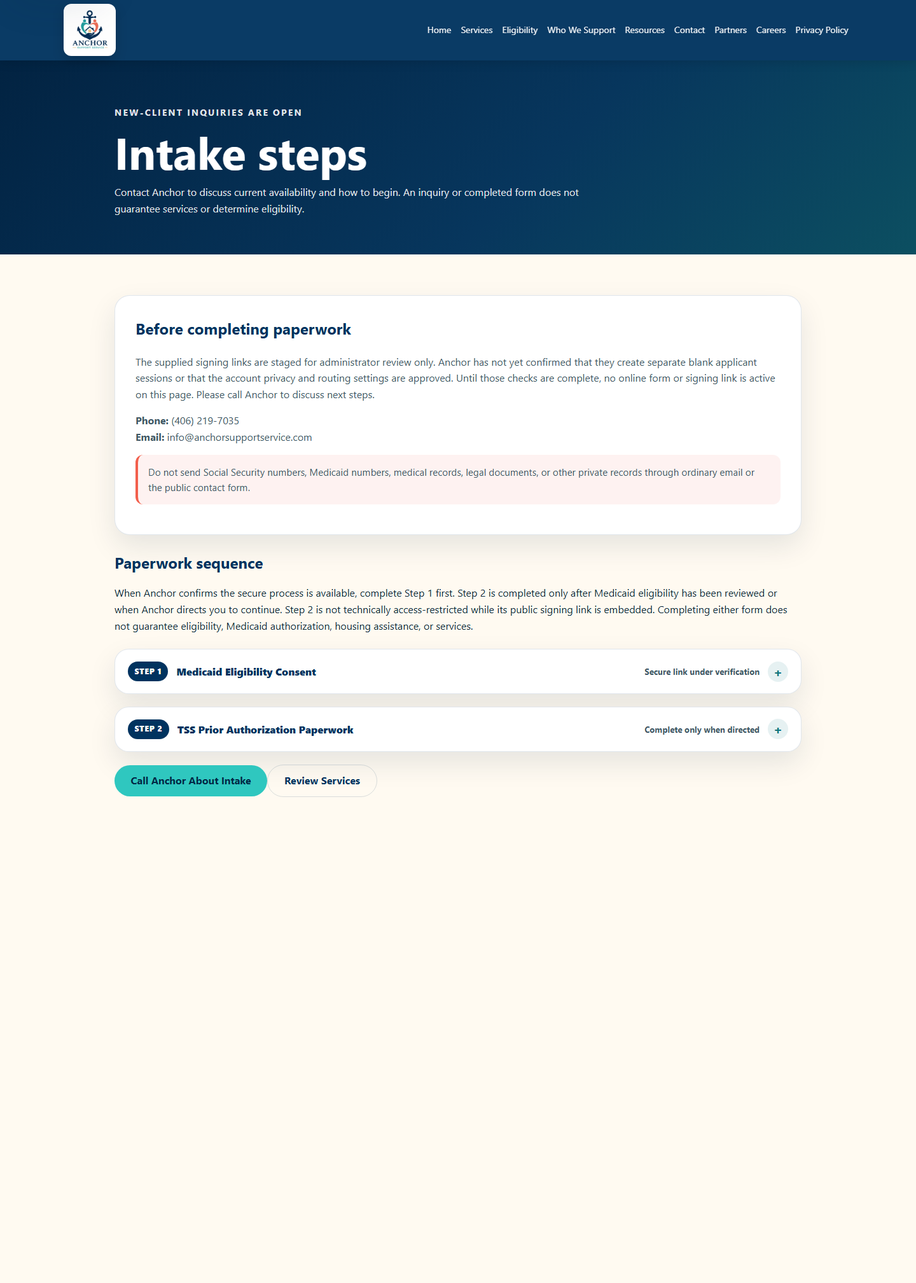
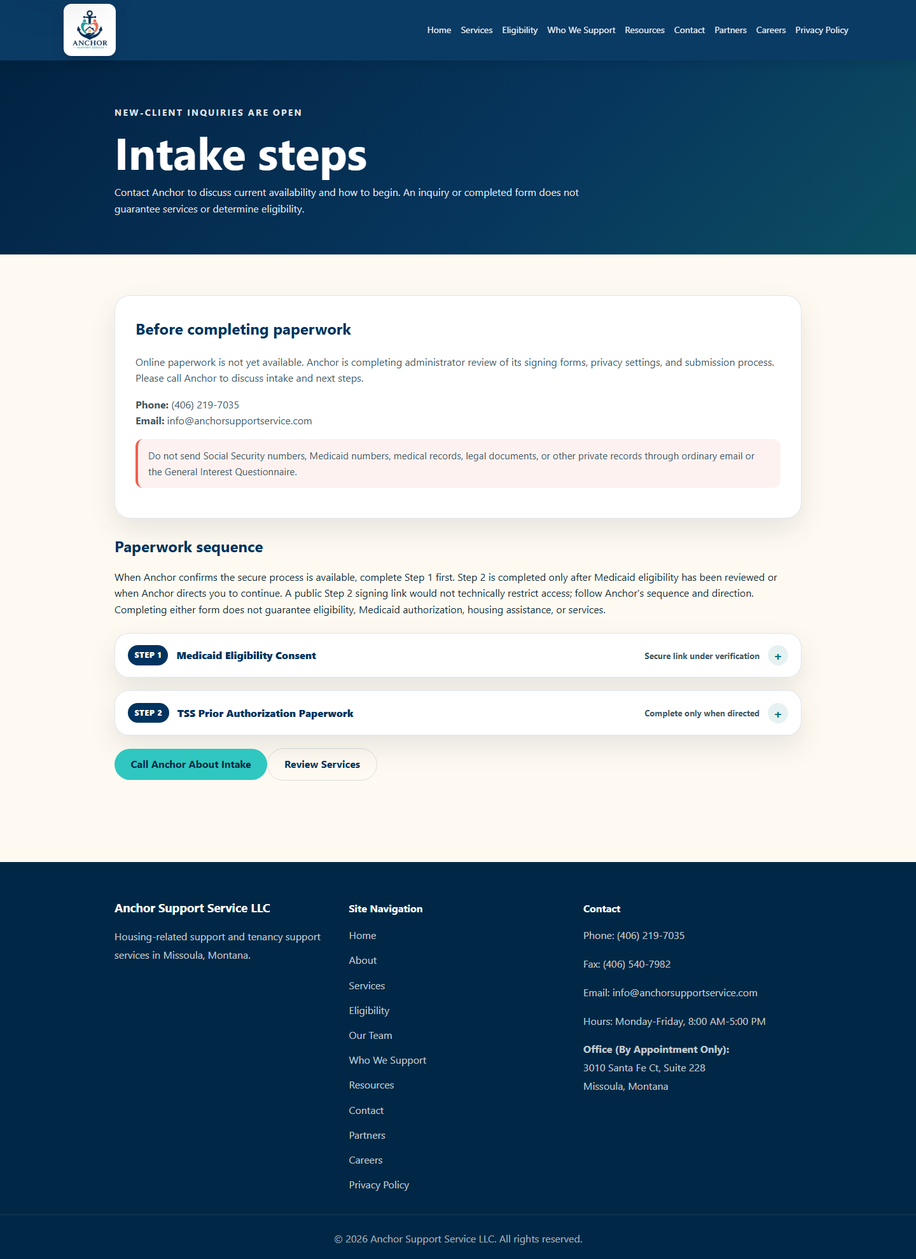
Restore general interest questionnaire and telephone intake

diff --git a/secure-paperwork.html b/secure-paperwork.html
@@ -40,39 +40,26 @@
       <div class="container">
         <div class="secure-action-card">
           <h2 id="secure-paperwork-title" tabindex="-1">Before completing paperwork</h2>
-          <p>The supplied signing links are staged for administrator review only. Anchor has not yet confirmed that they create separate blank applicant sessions or that the account privacy and routing settings are approved. Until those checks are complete, no online form or signing link is active on this page. Please call Anchor to discuss next steps.</p>
+          <p>Online paperwork is not yet available. Anchor is completing administrator review of its signing forms, privacy settings, and submission process. Please call Anchor to discuss intake and next steps.</p>
           <p><strong>Phone:</strong> <a href="tel:4062197035">(406) 219-7035</a><br /><strong>Email:</strong> <a href="mailto:info@anchorsupportservice.com">info@anchorsupportservice.com</a></p>
-          <p class="privacy-warning">Do not send Social Security numbers, Medicaid numbers, medical records, legal documents, or other private records through ordinary email or the public contact form.</p>
+          <p class="privacy-warning">Do not send Social Security numbers, Medicaid numbers, medical records, legal documents, or other private records through ordinary email or the General Interest Questionnaire.</p>
         </div>
 
         <section class="secure-paperwork-section" aria-labelledby="paperwork-steps-title">
           <h2 id="paperwork-steps-title">Paperwork sequence</h2>
-          <p>When Anchor confirms the secure process is available, complete Step 1 first. Step 2 is completed only after Medicaid eligibility has been reviewed or when Anchor directs you to continue. Step 2 is not technically access-restricted while its public signing link is embedded. Completing either form does not guarantee eligibility, Medicaid authorization, housing assistance, or services.</p>
+          <p>When Anchor confirms the secure process is available, complete Step 1 first. Step 2 is completed only after Medicaid eligibility has been reviewed or when Anchor directs you to continue. A public Step 2 signing link would not technically restrict access; follow Anchor's sequence and direction. Completing either form does not guarantee eligibility, Medicaid authorization, housing assistance, or services.</p>
           <div class="paperwork-accordion">
             <details class="paperwork-step">
               <summary><span class="paperwork-step-number">Step 1</span><span class="paperwork-step-title">Medicaid Eligibility Consent</span><span class="paperwork-step-status">Secure link under verification</span></summary>
-              <div class="paperwork-step-content"><p>The supplied Step 1 embed and full-screen link are held in inactive review markup until Anchor verifies the signing session, account, privacy, and routing settings. Call Anchor for next steps; do not use a saved invitation link.</p></div>
+              <div class="paperwork-step-content"><p>Medicaid Eligibility Consent is not yet available online. Call Anchor for next steps. Complete Step 1 before proceeding to Step 2.</p></div>
             </details>
             <details class="paperwork-step">
               <summary><span class="paperwork-step-number">Step 2</span><span class="paperwork-step-title">TSS Prior Authorization Paperwork</span><span class="paperwork-step-status">Complete only when directed</span></summary>
-              <div class="paperwork-step-content"><p>This step follows Medicaid eligibility review or Anchor's direction to continue. Its supplied embed and full-screen link are held in inactive review markup pending the same verification. This public link is not technically access-restricted, so it must not be activated until the sequence and applicant-isolation checks pass.</p></div>
+              <div class="paperwork-step-content"><p>This step is not yet available online. It should only be completed after Medicaid eligibility review or when Anchor directs you to proceed.</p></div>
             </details>
           </div>
           <div class="secure-paperwork-actions"><a class="button button-primary" href="tel:4062197035">Call Anchor About Intake</a><a class="button button-link" href="/#services">Review Services</a></div>
         </section>
-        <!-- Inert review-only templates: content is not rendered, fetched, or available as an active signing link. -->
-        <template id="medicaid-signing-review">
-          <div class="jotform-embed-wrapper">
-            <iframe title="Anchor Medicaid Eligibility Consent Form FINAL" src="https://www.jotform.com/sign/262147427126051/invite/01kz4zvdp21ab4ea6182848483?signEmbed=1" class="secure-paperwork-frame" loading="lazy" style="width:100%; max-width:100%; min-height:750px; border:0;"></iframe>
-          </div>
-          <a href="https://www.jotform.com/sign/262147427126051/invite/01kz4zvdp21ab4ea6182848483" target="_blank" rel="noopener noreferrer">Open Medicaid Eligibility Consent in a full-screen signing page</a>
-        </template>
-        <template id="tss-referral-signing-review">
-          <div class="jotform-embed-wrapper">
-            <iframe title="TSS PA Prefilled Anchor Support 8.3.26" src="https://www.jotform.com/sign/262147240572049/invite/01kz4zrqzrffb243dcb86ce3ee?signEmbed=1" class="secure-paperwork-frame" loading="lazy" style="width:100%; max-width:100%; min-height:750px; border:0;"></iframe>
-          </div>
-          <a href="https://www.jotform.com/sign/262147240572049/invite/01kz4zrqzrffb243dcb86ce3ee" target="_blank" rel="noopener noreferrer">Open TSS Prior Authorization Paperwork in a full-screen signing page</a>
-        </template>
       </div>
     </section>
   </main>

diff --git a/index.html b/index.html
@@ -405,12 +405,13 @@
             <p class="eyebrow">Contact and Updates</p>
             <h2>Contact Anchor Support Service LLC</h2>
             <p>Anchor is accepting new-client inquiries. Contact us to discuss availability and the referral and assessment process. An inquiry does not guarantee services, housing, financial assistance, Medicaid approval, Tenancy Support Services eligibility, prior authorization, or approval by another agency or program.</p>
-            <p class="privacy-warning">Please do not send private health or identifying information through ordinary email or the public contact form.</p>
+            <p class="privacy-warning">The General Interest Questionnaire is for general inquiries only; it is not a secure Medicaid enrollment form. Do not submit sensitive medical, Medicaid, or identifying information through the questionnaire or ordinary email.</p>
             <p>If this is an emergency, call 911. If you are in emotional distress or a mental health crisis, call or text 988.</p>
           </div>
           <div class="contact-actions">
-            <a class="button button-primary" href="secure-paperwork.html">View Intake Steps</a>
+            <a class="button button-primary" href="https://docs.google.com/forms/d/e/1FAIpQLSeae9eGYlUxB4MeFz2V6wtrWI_awH7uM_E0AykRIPcDMjRBGQ/viewform" target="_blank" rel="noopener noreferrer">General Interest Questionnaire</a>
             <a class="button button-link" href="tel:4062197035">Call Anchor</a>
+            <a class="button button-link" href="secure-paperwork.html">View Intake Steps</a>
             <a class="button button-link" href="mailto:info@anchorsupportservice.com">Email Anchor</a>
           </div>
         </div>

diff --git a/.github/site-tools/website_qa.py b/.github/site-tools/website_qa.py
@@ -27,6 +27,7 @@ EXTERNAL_EXPECTED = {
     "https://www.hud.gov/",
     "https://mountainline.com/",
     "https://www.indeed.com/viewjob?jk=b645ab34482aea27",
+    "https://docs.google.com/forms/d/e/1FAIpQLSeae9eGYlUxB4MeFz2V6wtrWI_awH7uM_E0AykRIPcDMjRBGQ/viewform",
 }
 
 class QuietHandler(SimpleHTTPRequestHandler):
@@ -226,7 +227,8 @@ def main():
                 page.goto(base + "/#contact", wait_until="networkidle")
                 contact_text = page.locator("#contact").inner_text()
                 office_text = page.locator(".office-update-card").inner_text()
-                contact_ok = all(s in contact_text for s in ["(406) 219-7035", "(406) 540-7982", "info@anchorsupportservice.com", "accepting new-client inquiries", "3010 Santa Fe Ct, Suite 228", "By Appointment Only", "Walk-ins are not available", "PO Box 17021", "3150 Great Northern Loop"]) and all(s.casefold() in office_text.casefold() for s in ["Office Location Update", "3010 Santa Fe Ct, Suite 228", "By Appointment Only", "Walk-ins are not available"]) and page.locator('#contact a[href^="https://www.google.com/maps/search/"]').count() == 1 and page.locator('.office-update-card a[href^="https://www.google.com/maps/search/"]').count() == 1
+                questionnaire = page.locator('#contact a[href="https://docs.google.com/forms/d/e/1FAIpQLSeae9eGYlUxB4MeFz2V6wtrWI_awH7uM_E0AykRIPcDMjRBGQ/viewform"]')
+                contact_ok = all(s in contact_text for s in ["(406) 219-7035", "(406) 540-7982", "info@anchorsupportservice.com", "accepting new-client inquiries", "3010 Santa Fe Ct, Suite 228", "By Appointment Only", "Walk-ins are not available", "PO Box 17021", "3150 Great Northern Loop", "General Interest Questionnaire", "not a secure Medicaid enrollment form", "Do not submit sensitive medical, Medicaid, or identifying information"]) and all(s.casefold() in office_text.casefold() for s in ["Office Location Update", "3010 Santa Fe Ct, Suite 228", "By Appointment Only", "Walk-ins are not available"]) and questionnaire.count() == 1 and questionnaire.get_attribute("target") == "_blank" and "noopener" in (questionnaire.get_attribute("rel") or "") and page.locator('#contact a[href="tel:4062197035"]').count() >= 1 and page.locator('#contact a[href="secure-paperwork.html"]').inner_text() == "View Intake Steps" and page.locator('#contact a[href^="https://www.google.com/maps/search/"]').count() == 1 and page.locator('.office-update-card a[href^="https://www.google.com/maps/search/"]').count() == 1
                 page.goto(base + "/policy.html", wait_until="networkidle")
                 overflow_after_zoom = []
                 for zoom_width in [int(width/1.25), int(width/2)] if width <= 430 else []:
@@ -234,7 +236,7 @@ def main():
                     z = page.evaluate("({inner:innerWidth,scroll:document.documentElement.scrollWidth})")
                     if z["scroll"] > z["inner"] + 1:
                         overflow_after_zoom.append({"width": zoom_width, **z})
-                results["journeys"][label] = {"hiring_visible": hiring_visible, "careers_navigation": on_careers, "position_content": content_present, "pdf_download": download_ok, "pdf_href": href, "indeed_application": indeed_ok, "mobile_intro_compact": compact_intro, "apply_button_visible_early": apply_early, "mobile_menu_to_policy": menu_policy_ok, "policy_readable": policy_ok, "policy_contact_section": policy_contact_ok, "contact_links_and_intake_notice": contact_ok, "zoom_overflow": overflow_after_zoom}
+                results["journeys"][label] = {"hiring_visible": hiring_visible, "careers_navigation": on_careers, "position_content": content_present, "pdf_download": download_ok, "pdf_href": href, "indeed_application": indeed_ok, "mobile_intro_compact": compact_intro, "apply_button_visible_early": apply_early, "mobile_menu_to_policy": menu_policy_ok, "policy_readable": policy_ok, "policy_contact_section": policy_contact_ok, "contact_links_intake_notice_and_questionnaire": contact_ok, "zoom_overflow": overflow_after_zoom}
 
             page.set_viewport_size({"width": 390, "height": 844})
             page.goto(base + "/", wait_until="networkidle")
@@ -244,25 +246,14 @@ def main():
             secure_text = page.locator("main").inner_text()
             steps_text = page.locator(".paperwork-step").evaluate_all("els => els.map(el => el.textContent)")
             steps_text = " ".join(steps_text).strip()
-            template_checks = page.evaluate("""() => {
-              const expected = [
-                {id:'medicaid-signing-review', title:'Anchor Medicaid Eligibility Consent Form FINAL', src:'https://www.jotform.com/sign/262147427126051/invite/01kz4zvdp21ab4ea6182848483?signEmbed=1', full:'https://www.jotform.com/sign/262147427126051/invite/01kz4zvdp21ab4ea6182848483'},
-                {id:'tss-referral-signing-review', title:'TSS PA Prefilled Anchor Support 8.3.26', src:'https://www.jotform.com/sign/262147240572049/invite/01kz4zrqzrffb243dcb86ce3ee?signEmbed=1', full:'https://www.jotform.com/sign/262147240572049/invite/01kz4zrqzrffb243dcb86ce3ee'}
-              ];
-              return expected.map(item => {
-                const template=document.getElementById(item.id);
-                const frame=template?.content.querySelector('iframe');
-                const link=template?.content.querySelector('a');
-                return {id:item.id, exists:!!template, iframe:!!frame, title:frame?.title, src:frame?.getAttribute('src'), accessibleFullScreen:!!link && link.href===item.full, fullLinkText:link?.textContent.trim()||'', loading:frame?.getAttribute('loading'), widthStyle:frame?.getAttribute('style')||''};
-              });
-            }""")
-            staged_links_ok = len(template_checks) == 2 and template_checks[0]["exists"] and template_checks[0]["iframe"] and template_checks[0]["title"] == "Anchor Medicaid Eligibility Consent Form FINAL" and template_checks[0]["src"] == "https://www.jotform.com/sign/262147427126051/invite/01kz4zvdp21ab4ea6182848483?signEmbed=1" and template_checks[0]["accessibleFullScreen"] and template_checks[1]["exists"] and template_checks[1]["iframe"] and template_checks[1]["title"] == "TSS PA Prefilled Anchor Support 8.3.26" and template_checks[1]["src"] == "https://www.jotform.com/sign/262147240572049/invite/01kz4zrqzrffb243dcb86ce3ee?signEmbed=1" and template_checks[1]["accessibleFullScreen"] and all(x["loading"] == "lazy" and "width:100%" in x["widthStyle"] for x in template_checks)
-            active_signing_link = page.locator('a[href^="https://www.jotform.com/sign/"]').count() > 0
-            secure_intake_ok = secure_meta == "noindex, nofollow" and all(s in secure_text + " " + steps_text for s in ["Step 1", "Medicaid Eligibility Consent", "Step 2", "TSS Prior Authorization Paperwork", "only after Medicaid eligibility has been reviewed", "not technically access-restricted", "does not guarantee eligibility, Medicaid authorization, housing assistance"]) and page.locator(".paperwork-step").count() == 2 and page.locator("iframe").count() == 0 and page.locator("form").count() == 0 and page.locator('a[href="tel:4062197035"]').count() >= 1 and staged_links_ok and not active_signing_link
+            secure_html = (root / "secure-paperwork.html").read_text(encoding="utf-8").casefold()
+            secure_online_unavailable = "online paperwork is not yet available" in secure_text.casefold()
+            no_published_jotform_link = "jotform.com" not in secure_html and "/invite/" not in secure_html
+            secure_intake_ok = secure_meta == "noindex, nofollow" and all(s in secure_text + " " + steps_text for s in ["Step 1", "Medicaid Eligibility Consent", "Step 2", "TSS Prior Authorization Paperwork", "only after Medicaid eligibility has been reviewed", "does not guarantee eligibility, Medicaid authorization, housing assistance"]) and secure_online_unavailable and no_published_jotform_link and page.locator(".paperwork-step").count() == 2 and page.locator("iframe").count() == 0 and page.locator("form").count() == 0 and page.locator('a[href="tel:4062197035"]').count() >= 1 and page.locator('a[href^="https://www.jotform.com/"]').count() == 0
             stale_pause_copy = re.compile(r"paused from accepting new clients|new client pause|intake (?:is )?paused|paperwork (?:is )?paused", re.I)
             public_html = [root / "index.html", root / "careers" / "index.html", root / "secure-paperwork.html"]
             no_stale_intake_pause = all(not stale_pause_copy.search(file.read_text(encoding="utf-8")) for file in public_html)
-            results["journeys"]["new_client_intake"] = {"homepage_notice": intake_notice_ok, "secure_steps_and_no_unverified_embeds": secure_intake_ok, "staged_embed_snippets_and_full_screen_links": staged_links_ok, "no_active_signing_links": not active_signing_link, "secure_route_noindex_nofollow": secure_meta == "noindex, nofollow", "no_stale_pause_copy": no_stale_intake_pause}
+            results["journeys"]["new_client_intake"] = {"homepage_notice": intake_notice_ok, "secure_steps_and_online_forms_unavailable": secure_intake_ok, "no_jotform_or_invitation_links_published": no_published_jotform_link, "secure_route_noindex_nofollow": secure_meta == "noindex, nofollow", "no_stale_pause_copy": no_stale_intake_pause}
 
             page.set_viewport_size({"width": 390, "height": 844})
             page.goto(base + "/", wait_until="networkidle")
@@ -300,9 +291,9 @@ def main():
     summary = {"page_count": len(results["pages"]), "viewports": VIEWPORTS, "overflow": results["overflow"], "page_errors": results["page_errors"], "console_errors": results["console_errors"], "failed_local_requests": results["failed_local_requests"], "broken_images": results["broken_images"], "internal_links": results["internal_links"], "external_link_count": len(results["external_links"]), "journeys": results["journeys"], "accessibility": results["accessibility"]}
     print(json.dumps(summary, indent=2))
     failed = bool(results["overflow"] or results["page_errors"] or results["console_errors"] or results["failed_local_requests"] or results["broken_images"] or results["internal_links"] or results["accessibility"])
-    failed = failed or any(not all([v.get("hiring_visible"),v.get("careers_navigation"),v.get("position_content"),v.get("pdf_download"),v.get("indeed_application"),v.get("mobile_intro_compact"),v.get("apply_button_visible_early"),v.get("mobile_menu_to_policy"),v.get("policy_readable"),v.get("policy_contact_section"),v.get("contact_links_and_intake_notice")]) or v.get("zoom_overflow") for k,v in results["journeys"].items() if k in ("mobile","desktop"))
+    failed = failed or any(not all([v.get("hiring_visible"),v.get("careers_navigation"),v.get("position_content"),v.get("pdf_download"),v.get("indeed_application"),v.get("mobile_intro_compact"),v.get("apply_button_visible_early"),v.get("mobile_menu_to_policy"),v.get("policy_readable"),v.get("policy_contact_section"),v.get("contact_links_intake_notice_and_questionnaire")]) or v.get("zoom_overflow") for k,v in results["journeys"].items() if k in ("mobile","desktop"))
     intake = results["journeys"].get("new_client_intake", {})
-    failed = failed or not all(intake.get(key) for key in ("homepage_notice", "secure_steps_and_no_unverified_embeds", "secure_route_noindex_nofollow", "no_stale_pause_copy"))
+    failed = failed or not all(intake.get(key) for key in ("homepage_notice", "secure_steps_and_online_forms_unavailable", "no_jotform_or_invitation_links_published", "secure_route_noindex_nofollow", "no_stale_pause_copy"))
     partners = results["journeys"].get("partners_page", {})
     failed = failed or not all(partners.get(key) for key in ("homepage_callout", "content_scope_and_limitations", "verified_contact_links_no_form"))
 

diff --git a/review-artifacts/partners/RELEASE_REVIEW.md b/review-artifacts/partners/RELEASE_REVIEW.md
@@ -2,7 +2,7 @@
 
 **Branch:** `phase2/partners`  
 **Target:** `main`  
-**State:** Review-only Jotform embeds staged; no PR was created because the connected GitHub integration rejected PR creation with HTTP 403 (`Resource not accessible by integration`). Do not merge or deploy before administrator verification and owner approval.
+**State:** Telephone and general-interest inquiry release prepared on this branch. Secure online intake remains inactive. No PR was created because the connected GitHub integration rejected PR creation with HTTP 403 (`Resource not accessible by integration`). Do not merge or deploy without owner approval.
 
 ## Integrated history
 
@@ -28,36 +28,39 @@ The two historical forms are:
 1. **Anchor Medicaid Eligibility Consent**
 2. **TSS PA / Referral Paperwork**
 
-The owner supplied two invitation-path embed URLs and asked that they be staged for administrator review. They are kept inside inert HTML `<template>` elements on `/secure-paperwork.html`; browsers do not render those frames or request the URLs, and no active Jotform signing link is presented. Each template includes its supplied embed code and a full-screen link candidate. The visible page remains telephone-first, says the links are under review, and explicitly says Step 2 is not technically access-restricted while publicly embedded. The route remains `noindex, nofollow`.
+The `/secure-paperwork.html` page provides verified telephone contact and clearly states that online paperwork is not yet available. The homepage Contact section now offers the existing Google General Interest Questionnaire alongside the phone and intake-steps actions, states it is not a secure Medicaid enrollment form, and warns against submitting sensitive medical, Medicaid, or identifying information. The form's public blank view asks for contact information and general housing/service needs, explicitly prohibits Social Security numbers, medical records, legal documents, full Medicaid numbers, and private documents, and provides a submit control. On November 18, 2026, it loaded successfully (HTTP 200), showed a Submit control, and displayed no closed-form message. No data was entered or submitted. This indicates the form appeared open at check time, but does not verify response routing or notifications.
 
-Anonymous read-only checks of the supplied URLs returned HTTP 200 and the expected form titles at the time checked. The Step 1 document showed 47 controls and 14 non-empty fields; Step 2 showed 97 controls and 52 non-empty fields. **No field values were read, recorded, or submitted.** Because values are present in both sessions, we cannot determine whether they are benign document defaults or applicant-specific data. This is a release-blocking isolation/privacy concern until the administrator confirms the links create separate blank applicant sessions. These checks do not establish that the links were generated through Share → Embed, remain active, or route completed submissions to Anchor's intended account.
+The intake page retains the Step 1 Medicaid Consent then Step 2 TSS Referral / Prior Authorization sequence, with Step 2 only after Medicaid review or Anchor's direction. No Jotform embed, invitation link, or full-screen signing link is included in current website source or generated public output. Online signing remains inactive.
 
-No authenticated Jotform administration access was available. No submissions were inspected or made. Online signing and the full-screen links remain inactive.
+An earlier anonymous read-only check observed some non-empty fields in the supplied forms. **That observation alone is not evidence of a privacy incident. No field contents were inspected, exposed, recorded, or submitted.** The authorized Jotform administrator must determine whether any prefilled content is an intentional organization-level default or applicant-specific information by inspecting form configuration in the authenticated account and confirming with safe synthetic sessions only. No actual applicant values should be copied into this review or shared during verification.
 
 An authorized Jotform administrator must verify and document all of the following before enabling online paperwork:
 
-1. In the live account, confirm both supplied URLs are current reusable public Share → Embed signing links and are not invitation-specific links. Explain the observed non-empty fields without exposing their values. Using synthetic data only, verify that separate fresh sessions are blank and isolated, and that no previous applicant's information is exposed. Confirm whether the full-screen URLs are the approved public sharing URLs.
-2. Verify a current, executed HIPAA Business Associate Agreement applies to Anchor’s Jotform account, plan, forms, storage, and enabled features. Confirm which submissions and attachments it covers; do not infer coverage from a product label or a generic vendor statement.
-3. Review submission privacy and separation: who can view, edit, export, download, or share each form’s responses; whether responses or attachments appear in public/shared locations; and whether access is limited to the correct authorized staff.
-4. Review account access: current named staff, role permissions, authentication/MFA settings, former-staff access removal, and available access/audit history.
-5. Review notifications and routing: send only minimum-necessary notifications, avoid PHI in ordinary email subjects/bodies and attachments, confirm recipients are authorized, and keep the consent and TSS PA workflows separate and correctly ordered.
-6. Confirm retention, deletion, export/backups, and incident/escalation procedures for the submissions under Anchor’s applicable policies and agreements.
-7. Test only with synthetic data after the account checks. Verify the links, separate sessions, notifications, routing, access, and deletion without entering or submitting actual client PHI.
+1. In the live account, confirm both forms are active and obtain current reusable public Share → Embed URLs, not invitation-specific links. Verify fresh sessions are separate and do not expose prior applicants' information. Use synthetic data only. Do not publish these URLs until confirmed reusable and safe.
+2. Review these field categories in the form configuration and confirm their defaults are organization-level and contain no applicant-specific information: organization identity and contact fields; applicant identity and contact fields; date-of-birth and Medicaid/member identifiers; referral, provider, service, and prior-authorization details; health, eligibility, and case information; signatures, dates, and attestations; uploaded files or attachments.
+3. Verify a current, executed HIPAA Business Associate Agreement applies to Anchor’s Jotform account, plan, forms, storage, and enabled features. Confirm which submissions and attachments it covers; do not infer coverage from a product label or a generic vendor statement.
+4. Review submission privacy and separation: who can view, edit, export, download, or share each form’s responses; whether responses or attachments appear in public/shared locations; and whether access is limited to the correct authorized staff.
+5. Review account access: current named staff, role permissions, authentication/MFA settings, former-staff access removal, and available access/audit history.
+6. Review notifications and routing: send only minimum-necessary notifications, avoid PHI in ordinary email subjects/bodies and attachments, confirm recipients are authorized, and keep the consent and TSS PA workflows separate and correctly ordered.
+7. Confirm retention, deletion, export/backups, and incident/escalation procedures for the submissions under Anchor’s applicable policies and agreements.
+8. Only after the preceding checks, use synthetic data to verify signing, separate sessions, notifications, routing, authorized access, and deletion. Do not enter actual client PHI during testing.
 
-Official Jotform guidance describes generating a Jotform Sign embed via **Share → Embed** and copying its generated embed code, but this does not verify that the supplied invitation-path URLs were generated that way or are reusable. Jotform's HIPAA help says account administrators must enable the HIPAA environment and review/sign the BAA in the account; Anchor's own configuration and signed BAA remain unverified ([Jotform Sign embed instructions](https://www.jotform.com/help/how-to-use-jotform-sign/), [HIPAA BAA instructions](https://www.jotform.com/help/501-how-to-receive-the-baa-for-my-hipaa-account/), [HIPAA environment setup](https://www.jotform.com/help/500-how-to-enable-hipaa-compliance/)).
+Official Jotform guidance describes generating a Jotform Sign embed via **Share → Embed**, but only the account administrator can confirm the actual reusable link and account configuration. Jotform's HIPAA help describes account-level HIPAA environment and BAA checks; Anchor's own configuration and signed BAA remain unverified ([Jotform Sign embed instructions](https://www.jotform.com/help/how-to-use-jotform-sign/), [HIPAA BAA instructions](https://www.jotform.com/help/501-how-to-receive-the-baa-for-my-hipaa-account/), [HIPAA environment setup](https://www.jotform.com/help/500-how-to-enable-hipaa-compliance/)).
 
-Until administrator verification is complete, the public secure-paperwork route offers a clearly labeled **Call Anchor About Intake** telephone option. It shows no online application button, does not claim that online paperwork is active, and remains `noindex, nofollow`. The review branch is ready for telephone-based inquiries as a website flow; the live website has not been updated.
+Until administrator verification is complete, the public secure-paperwork route offers a clearly labeled **Call Anchor About Intake** telephone option. It shows no online application button, does not claim that online paperwork is active, and remains `noindex, nofollow`. The review branch supports telephone and general-interest inquiries; the live website has not been updated.
 
 ## Verification results
 
 Ran the public-site builder and existing Playwright QA suite against `dist/public-site` after adding `/partners/` to the explicit allowlist.
 
-- 60 page/viewport combinations across 360, 375, 390, 430, 768, 900, 1024, 1366, 1440, and 1920 px.
+- 60 page/viewport combinations across 360, 375, 390, 430, 768, 900, 1024, 1366, 1440, and 1920 px; 13 expected external links including the Google questionnaire.
 - No overflow, page errors, console errors, failed local requests, broken images, unresolved internal links, or automated accessibility smoke-test findings.
 - Partners content/limitations/privacy/contact/no-form checks passed; route is in the sitemap, public allowlist, homepage callout, mobile navigation, desktop navigation, footer, Careers, Policy, secure-paperwork, and 404 navigation.
 - Existing client-intake phone fallback, Careers/Indeed/PDF, Privacy Policy, contact links, and public WaiverTrack landing-route checks passed. WaiverTrack authentication was not opened or changed.
-- The supplied embed snippets and full-screen link candidates are present only inside inert review templates; both form steps, order instructions, no-guarantee notice, phone option, and inactive state pass checks. No live Jotform request is made by the website, and no active Jotform link is rendered.
-- Anonymous checks of the externally supplied Jotform URLs loaded the expected titles but showed non-empty fields. Applicant isolation, form status, destination account, notification contents/recipients, staff access, HIPAA environment, and BAA coverage cannot be verified without an authorized account administrator.
+- Secure-paperwork QA verifies the forms-unavailable notice, telephone contact, sequence, no-guarantee notice, `noindex, nofollow`, no form/iframe, and no Jotform or invitation links in the current public page source/output.
+- Homepage Contact QA verifies the General Interest Questionnaire URL and visible label, phone and intake-steps actions, safe-link attributes, and the notice that this is not secure Medicaid enrollment and must not receive sensitive data.
+- The form status, default field categories, fresh-session isolation, destination account, notification contents/recipients, staff access, HIPAA environment, and BAA coverage require authorized administrator verification.
+- Pre-deployment live check on November 18, 2026: homepage HTTP 200 but still contains the intake-pause wording; `/partners/` returns HTTP 404; `/careers/` returns HTTP 200. The live homepage already has the existing General Interest List form link. These are baseline observations before this branch is merged or deployed, not post-deployment verification.
 - No real client data was used; no Jotform was submitted.
 
 ### Screenshots
@@ -66,10 +69,22 @@ Ran the public-site builder and existing Playwright QA suite against `dist/publi
 
 ![Partners page on desktop](partners-desktop-full.png)
 
+![Homepage Contact section on mobile](homepage-contact-mobile.png)
+
+![Homepage Contact section on desktop](homepage-contact-desktop.png)
+
+![Secure-paperwork telephone release on mobile](secure-paperwork-mobile.png)
+
 These review-only artifacts are outside the public-site allowlist and are not deployed.
 
 ## Release gate
 
-**Telephone inquiry flow:** implemented and QA-passing in this branch; not live until the owner approves the PR and deployment.  
-**Full online Jotform intake:** not ready. Reusable links and account/privacy controls remain unverified.  
-**Production:** not ready and not deployed. Complete the Jotform administrator checklist, review the draft PR and CI results, obtain owner approval, and only then merge/deploy. After verified links are configured, rerun the full synthetic-data QA before enabling the forms.
+### Release 1 — Telephone and general-interest inquiry
+
+**GO for owner review:** modernization, reopened client inquiries, Careers, Partners, navigation, the General Interest Questionnaire, and the secure-paperwork page with online forms explicitly unavailable and the verified phone contact. The complete local CI build and QA pass. Owner approval is still required before merge/deploy. This state is prepared on the branch but not live.
+
+### Release 2 — Full online intake
+
+**NO-GO:** Keep inactive until all administrator checks above, synthetic fresh-session isolation and notification tests, owner approval, and a passing full website QA are documented. Only then add the verified reusable embeds and accessible full-screen links, preserve the authorization sequence, and rerun CI. Step 2 must not be described as technically access-restricted if its public link is exposed.
+
+**Production:** not deployed. No merge or deployment is authorized by this task.
